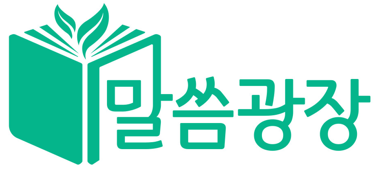
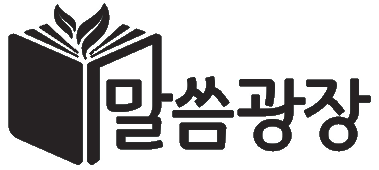
- 말씀광장 로고 색상 수정

diff --git a/css/style.css b/css/style.css
@@ -64,7 +64,7 @@ html, body { height: 100% }
     top: 2%;
     left: 5%;
     padding: 5px;
-    border: 1px solid #04b58b;
+    border: 1px solid #262223;
     border-radius: 35px;
 }
 
